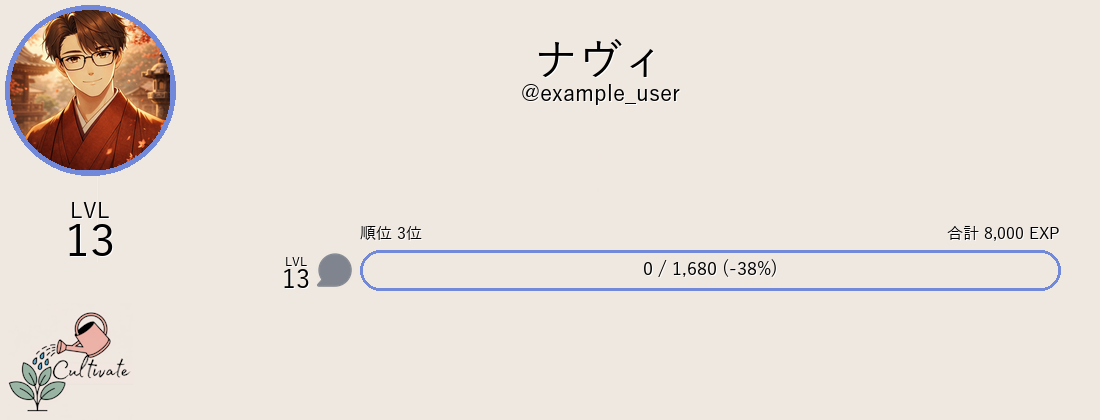
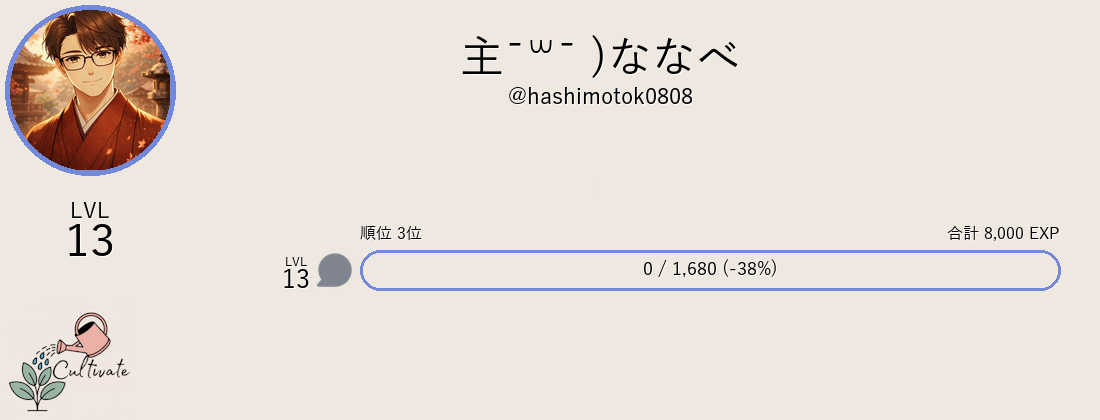
Sync: Updated documentation from hashimotok-delien/Cultivate (commit 799188d908a0fd4af1b60dba7c5d4c6f6adc6f91)

Changed region(s): [[0.4018, 0.0929, 0.68, 0.2476]]

diff --git a/docs/cultivate/features/rank.html b/docs/cultivate/features/rank.html
@@ -632,7 +632,8 @@ max(100, 50 * L ** 1.5)
         <p><strong>💡 ランクカードの内容:</strong></p>
         <ul>
           <li><strong>左上</strong>: 丸抜きアイコン＋カラーリング（色はランクカード設定で変更可能）</li>
-          <li><strong>中央上部</strong>: 表示名・ユーザー名</li>
+          <li><strong>中央上部</strong>: 表示名・ユーザー名（絵文字はカラーで描画。フォントは <code>data/fonts/NotoColorEmoji.ttf</code>）</li>
+          <li><strong>表示名の文字補完</strong>: 日本語フォントに無い文字（Yi文字「꒳」など）は <code>data/fonts/MSYI.TTF</code> / <code>NotoSansYi-Regular.ttf</code> で描画</li>
           <li><strong>アイコン下</strong>: 全体レベル（LVL＋数字）</li>
           <li><strong>各メーター直上</strong>: 系統別の順位・合計EXP</li>
           <li><strong>各メーター左側</strong>: 系統別のレベル（LVL＋数字）</li>
